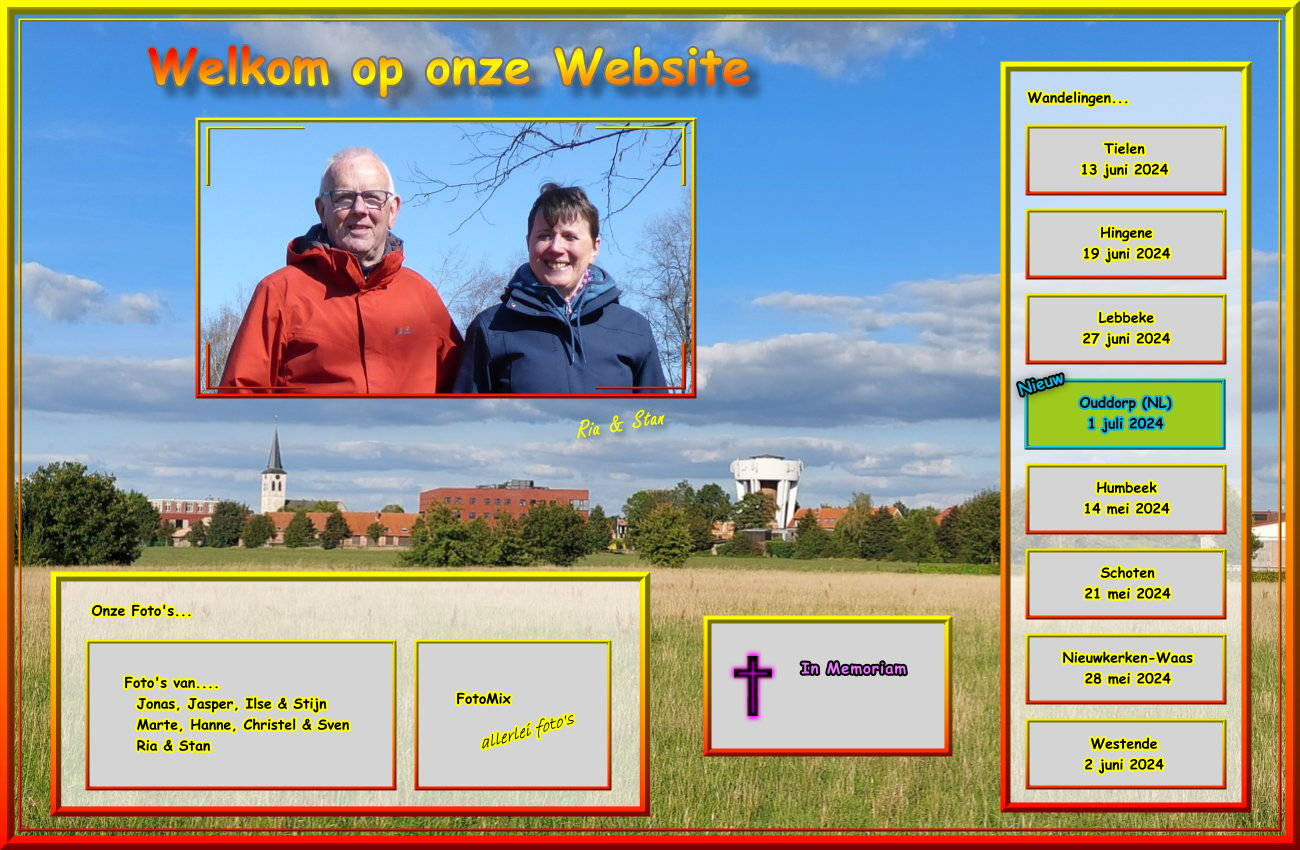
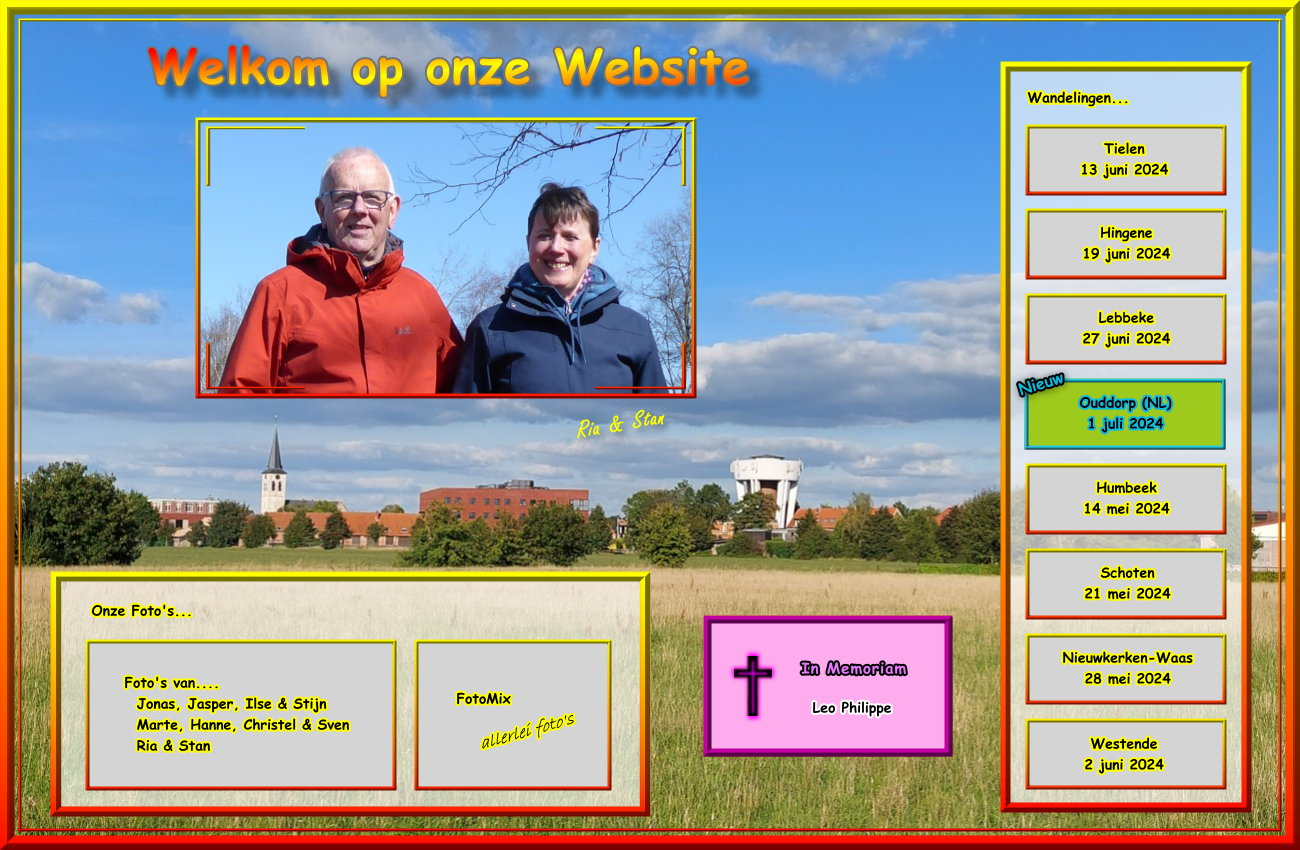
Leo Philippe

Changed region(s): [[0.5231, 0.7035, 0.7385, 0.9176]]

diff --git a/_vti_cnf/in_memoriam.htm b/_vti_cnf/in_memoriam.htm
@@ -1,18 +1,18 @@
 vti_encoding:SR|utf8-nl
 vti_author:SR|HOME-PC\\Stan Claes
 vti_modifiedby:SR|PC-Home\\Stan
-vti_timelastmodified:TR|15 Sep 2023 07:58:12 -0000
+vti_timelastmodified:TR|05 Jul 2024 07:36:28 -0000
 vti_timecreated:TR|19 Mar 2010 12:04:13 -0000
 vti_title:SR|In Memoriam
 vti_extenderversion:SR|6.0.2.5516
 vti_backlinkinfo:VX|index.htm in_memoriam.htm
-vti_nexttolasttimemodified:TW|06 Aug 2023 09:07:04 -0000
-vti_cacheddtm:TX|15 Sep 2023 07:58:12 -0000
-vti_filesize:IR|5785
+vti_nexttolasttimemodified:TW|15 Sep 2023 07:58:12 -0000
+vti_cacheddtm:TX|05 Jul 2024 07:36:28 -0000
+vti_filesize:IR|5998
 vti_cachedtitle:SR|In Memoriam
 vti_cachedbodystyle:SR|<body background="Fotomap/in_memoriam/in_memoriam_back.jpg" style="background-attachment: fixed" leftmargin="150" rightmargin="150">
-vti_cachedlinkinfo:VX|S|Fotomap/in_memoriam/in_memoriam_back.jpg H|index.htm S|Fotomap/in_memoriam/naam.png S|Fotomap/in_memoriam/guidoclaes.png S|Fotomap/in_memoriam/karstenverelst.png S|Fotomap/in_memoriam/josedecat.png S|Fotomap/in_memoriam/yvonnewitdoeck.png S|Fotomap/in_memoriam/rudiherbinia.png S|Fotomap/in_memoriam/vers.png S|Fotomap/in_memoriam/krisgoossens.png S|Fotomap/in_memoriam/josebollen.png S|Fotomap/in_memoriam/raymondebauwens.png S|Fotomap/in_memoriam/mariellepickaert.png S|Fotomap/in_memoriam/evacarrillo.png S|Fotomap/in_memoriam/germainebollen.png S|Fotomap/in_memoriam/jeanmatthyssens.png S|Fotomap/in_memoriam/blanco.png S|Fotomap/in_memoriam/swaverlinden.png S|Fotomap/in_memoriam/arthurwouters.png S|Fotomap/in_memoriam/hildabakelants.png S|Fotomap/in_memoriam/alicebollen.png S|Fotomap/in_memoriam/blanco.png S|Fotomap/in_memoriam/brunhildemayer.png S|Fotomap/in_memoriam/blanco.png S|Fotomap/in_memoriam/germainestukkens.png S|Fotomap/in_memoriam/jossmeuninx.png S|Fotomap/in_memoriam/marcelkeller.png S|Fotomap/in_memoriam/frankvereycken.png S|Fotomap/in_memoriam/wilfriedvandenabbeele.png S|Fotomap/in_memoriam/blanco.png S|Fotomap/in_memoriam/rikluyckx.png S|Fotomap/in_memoriam/rikvercammen.png S|Fotomap/in_memoriam/raymondniewold.png S|Fotomap/in_memoriam/rosaliedirix.png S|Fotomap/in_memoriam/blanco.png S|Fotomap/in_memoriam/albertschelvis.png S|Fotomap/in_memoriam/thildawuyts.png S|Fotomap/in_memoriam/blanco.png S|Fotomap/in_memoriam/hubertdescrevel.png S|Fotomap/in_memoriam/albertebollen.png S|Fotomap/in_memoriam/deniscrollet.png S|Fotomap/in_memoriam/louisdewolf.png S|Fotomap/in_memoriam/freddynyberg.png K|in_memoriam.htm S|Fotomap/in_memoriam/terugbegin.png K|in_memoriam.htm
-vti_cachedsvcrellinks:VX|FSUS|Fotomap/in_memoriam/in_memoriam_back.jpg FHUS|index.htm FSUS|Fotomap/in_memoriam/naam.png FSUS|Fotomap/in_memoriam/guidoclaes.png FSUS|Fotomap/in_memoriam/karstenverelst.png FSUS|Fotomap/in_memoriam/josedecat.png FSUS|Fotomap/in_memoriam/yvonnewitdoeck.png FSUS|Fotomap/in_memoriam/rudiherbinia.png FSUS|Fotomap/in_memoriam/vers.png FSUS|Fotomap/in_memoriam/krisgoossens.png FSUS|Fotomap/in_memoriam/josebollen.png FSUS|Fotomap/in_memoriam/raymondebauwens.png FSUS|Fotomap/in_memoriam/mariellepickaert.png FSUS|Fotomap/in_memoriam/evacarrillo.png FSUS|Fotomap/in_memoriam/germainebollen.png FSUS|Fotomap/in_memoriam/jeanmatthyssens.png FSUS|Fotomap/in_memoriam/blanco.png FSUS|Fotomap/in_memoriam/swaverlinden.png FSUS|Fotomap/in_memoriam/arthurwouters.png FSUS|Fotomap/in_memoriam/hildabakelants.png FSUS|Fotomap/in_memoriam/alicebollen.png FSUS|Fotomap/in_memoriam/blanco.png FSUS|Fotomap/in_memoriam/brunhildemayer.png FSUS|Fotomap/in_memoriam/blanco.png FSUS|Fotomap/in_memoriam/germainestukkens.png FSUS|Fotomap/in_memoriam/jossmeuninx.png FSUS|Fotomap/in_memoriam/marcelkeller.png FSUS|Fotomap/in_memoriam/frankvereycken.png FSUS|Fotomap/in_memoriam/wilfriedvandenabbeele.png FSUS|Fotomap/in_memoriam/blanco.png FSUS|Fotomap/in_memoriam/rikluyckx.png FSUS|Fotomap/in_memoriam/rikvercammen.png FSUS|Fotomap/in_memoriam/raymondniewold.png FSUS|Fotomap/in_memoriam/rosaliedirix.png FSUS|Fotomap/in_memoriam/blanco.png FSUS|Fotomap/in_memoriam/albertschelvis.png FSUS|Fotomap/in_memoriam/thildawuyts.png FSUS|Fotomap/in_memoriam/blanco.png FSUS|Fotomap/in_memoriam/hubertdescrevel.png FSUS|Fotomap/in_memoriam/albertebollen.png FSUS|Fotomap/in_memoriam/deniscrollet.png FSUS|Fotomap/in_memoriam/louisdewolf.png FSUS|Fotomap/in_memoriam/freddynyberg.png FKUS|in_memoriam.htm FSUS|Fotomap/in_memoriam/terugbegin.png FKUS|in_memoriam.htm
+vti_cachedlinkinfo:VX|S|Fotomap/in_memoriam/in_memoriam_back.jpg H|index.htm S|Fotomap/in_memoriam/naam.png S|Fotomap/in_memoriam/leophilippe.png S|Fotomap/in_memoriam/guidoclaes.png S|Fotomap/in_memoriam/karstenverelst.png S|Fotomap/in_memoriam/josedecat.png S|Fotomap/in_memoriam/vers.png S|Fotomap/in_memoriam/yvonnewitdoeck.png S|Fotomap/in_memoriam/rudiherbinia.png S|Fotomap/in_memoriam/krisgoossens.png S|Fotomap/in_memoriam/blanco.png S|Fotomap/in_memoriam/josebollen.png S|Fotomap/in_memoriam/raymondebauwens.png S|Fotomap/in_memoriam/mariellepickaert.png S|Fotomap/in_memoriam/evacarrillo.png S|Fotomap/in_memoriam/germainebollen.png S|Fotomap/in_memoriam/jeanmatthyssens.png S|Fotomap/in_memoriam/swaverlinden.png S|Fotomap/in_memoriam/arthurwouters.png S|Fotomap/in_memoriam/blanco.png S|Fotomap/in_memoriam/hildabakelants.png S|Fotomap/in_memoriam/alicebollen.png S|Fotomap/in_memoriam/blanco.png S|Fotomap/in_memoriam/brunhildemayer.png S|Fotomap/in_memoriam/blanco.png S|Fotomap/in_memoriam/germainestukkens.png S|Fotomap/in_memoriam/jossmeuninx.png S|Fotomap/in_memoriam/marcelkeller.png S|Fotomap/in_memoriam/frankvereycken.png S|Fotomap/in_memoriam/wilfriedvandenabbeele.png S|Fotomap/in_memoriam/blanco.png S|Fotomap/in_memoriam/rikluyckx.png S|Fotomap/in_memoriam/rikvercammen.png S|Fotomap/in_memoriam/raymondniewold.png S|Fotomap/in_memoriam/rosaliedirix.png S|Fotomap/in_memoriam/blanco.png S|Fotomap/in_memoriam/albertschelvis.png S|Fotomap/in_memoriam/thildawuyts.png S|Fotomap/in_memoriam/hubertdescrevel.png S|Fotomap/in_memoriam/blanco.png S|Fotomap/in_memoriam/albertebollen.png S|Fotomap/in_memoriam/deniscrollet.png S|Fotomap/in_memoriam/louisdewolf.png S|Fotomap/in_memoriam/freddynyberg.png K|in_memoriam.htm S|Fotomap/in_memoriam/terugbegin.png K|in_memoriam.htm
+vti_cachedsvcrellinks:VX|FSUS|Fotomap/in_memoriam/in_memoriam_back.jpg FHUS|index.htm FSUS|Fotomap/in_memoriam/naam.png FSUS|Fotomap/in_memoriam/leophilippe.png FSUS|Fotomap/in_memoriam/guidoclaes.png FSUS|Fotomap/in_memoriam/karstenverelst.png FSUS|Fotomap/in_memoriam/josedecat.png FSUS|Fotomap/in_memoriam/vers.png FSUS|Fotomap/in_memoriam/yvonnewitdoeck.png FSUS|Fotomap/in_memoriam/rudiherbinia.png FSUS|Fotomap/in_memoriam/krisgoossens.png FSUS|Fotomap/in_memoriam/blanco.png FSUS|Fotomap/in_memoriam/josebollen.png FSUS|Fotomap/in_memoriam/raymondebauwens.png FSUS|Fotomap/in_memoriam/mariellepickaert.png FSUS|Fotomap/in_memoriam/evacarrillo.png FSUS|Fotomap/in_memoriam/germainebollen.png FSUS|Fotomap/in_memoriam/jeanmatthyssens.png FSUS|Fotomap/in_memoriam/swaverlinden.png FSUS|Fotomap/in_memoriam/arthurwouters.png FSUS|Fotomap/in_memoriam/blanco.png FSUS|Fotomap/in_memoriam/hildabakelants.png FSUS|Fotomap/in_memoriam/alicebollen.png FSUS|Fotomap/in_memoriam/blanco.png FSUS|Fotomap/in_memoriam/brunhildemayer.png FSUS|Fotomap/in_memoriam/blanco.png FSUS|Fotomap/in_memoriam/germainestukkens.png FSUS|Fotomap/in_memoriam/jossmeuninx.png FSUS|Fotomap/in_memoriam/marcelkeller.png FSUS|Fotomap/in_memoriam/frankvereycken.png FSUS|Fotomap/in_memoriam/wilfriedvandenabbeele.png FSUS|Fotomap/in_memoriam/blanco.png FSUS|Fotomap/in_memoriam/rikluyckx.png FSUS|Fotomap/in_memoriam/rikvercammen.png FSUS|Fotomap/in_memoriam/raymondniewold.png FSUS|Fotomap/in_memoriam/rosaliedirix.png FSUS|Fotomap/in_memoriam/blanco.png FSUS|Fotomap/in_memoriam/albertschelvis.png FSUS|Fotomap/in_memoriam/thildawuyts.png FSUS|Fotomap/in_memoriam/hubertdescrevel.png FSUS|Fotomap/in_memoriam/blanco.png FSUS|Fotomap/in_memoriam/albertebollen.png FSUS|Fotomap/in_memoriam/deniscrollet.png FSUS|Fotomap/in_memoriam/louisdewolf.png FSUS|Fotomap/in_memoriam/freddynyberg.png FKUS|in_memoriam.htm FSUS|Fotomap/in_memoriam/terugbegin.png FKUS|in_memoriam.htm
 vti_cachedneedsrewrite:BR|false
 vti_cachedhasbots:BR|false
 vti_cachedhastheme:BR|false

diff --git a/in_memoriam.htm b/in_memoriam.htm
@@ -49,28 +49,30 @@ text-decoration: none;
 
 </div>
 <p align="center">
-<img border="0" src="Fotomap/in_memoriam/guidoclaes.png" width="200" height="300">&nbsp;&nbsp;&nbsp;&nbsp;
-<img border="0" src="Fotomap/in_memoriam/karstenverelst.png" width="200" height="300">&nbsp;&nbsp;&nbsp;&nbsp;
-<img border="0" src="Fotomap/in_memoriam/josedecat.png" width="200" height="300">
+<img border="0" src="Fotomap/in_memoriam/leophilippe.png" width="200" height="300">
 </p>
 
 <hr color="#CD036F">
 
 <p align="center">
 &nbsp;
+<img border="0" src="Fotomap/in_memoriam/guidoclaes.png" width="200" height="300">&nbsp;&nbsp;&nbsp;&nbsp;
+<img border="0" src="Fotomap/in_memoriam/karstenverelst.png" width="200" height="300">&nbsp;&nbsp;&nbsp;&nbsp;
+<img border="0" src="Fotomap/in_memoriam/josedecat.png" width="200" height="300">&nbsp;&nbsp;&nbsp;&nbsp;
+<img border="0" src="Fotomap/in_memoriam/vers.png" width="420" height="300">&nbsp;&nbsp;&nbsp;&nbsp;
 <img border="0" src="Fotomap/in_memoriam/yvonnewitdoeck.png" width="200" height="300">&nbsp;&nbsp;&nbsp;&nbsp;
 <img border="0" src="Fotomap/in_memoriam/rudiherbinia.png" width="200" height="300">&nbsp;&nbsp;&nbsp;&nbsp;
-<img border="0" src="Fotomap/in_memoriam/vers.png" width="420" height="300">&nbsp;&nbsp;&nbsp;&nbsp;
 <img border="0" src="Fotomap/in_memoriam/krisgoossens.png" width="200" height="300">&nbsp;&nbsp;&nbsp;&nbsp;
+<img border="0" src="Fotomap/in_memoriam/blanco.png" width="200" height="300">&nbsp;&nbsp;&nbsp;&nbsp;
 <img border="0" src="Fotomap/in_memoriam/josebollen.png" width="200" height="300">&nbsp;&nbsp;&nbsp;&nbsp;
 <img border="0" src="Fotomap/in_memoriam/raymondebauwens.png" width="200" height="300">&nbsp;&nbsp;&nbsp;&nbsp;
 <img border="0" src="Fotomap/in_memoriam/mariellepickaert.png" width="200" height="300">&nbsp;&nbsp;&nbsp;&nbsp;
 <img border="0" src="Fotomap/in_memoriam/evacarrillo.png" width="200" height="300">&nbsp;&nbsp;&nbsp;&nbsp;
 <img border="0" src="Fotomap/in_memoriam/germainebollen.png" width="200" height="300">&nbsp;&nbsp;&nbsp;&nbsp;
 <img border="0" src="Fotomap/in_memoriam/jeanmatthyssens.png" width="200" height="300">&nbsp;&nbsp;&nbsp;&nbsp;
-<img border="0" src="Fotomap/in_memoriam/blanco.png" width="200" height="300">&nbsp;&nbsp;&nbsp;&nbsp;
 <img border="0" src="Fotomap/in_memoriam/swaverlinden.png" width="200" height="300">&nbsp;&nbsp;&nbsp;&nbsp;
 <img border="0" src="Fotomap/in_memoriam/arthurwouters.png" width="200" height="300">&nbsp;&nbsp;&nbsp;&nbsp;
+<img border="0" src="Fotomap/in_memoriam/blanco.png" width="200" height="300">&nbsp;&nbsp;&nbsp;&nbsp;
 <img border="0" src="Fotomap/in_memoriam/hildabakelants.png" width="200" height="300">&nbsp;&nbsp;&nbsp;&nbsp;
 <img border="0" src="Fotomap/in_memoriam/alicebollen.png" width="200" height="300">&nbsp;&nbsp;&nbsp;&nbsp;
 <img border="0" src="Fotomap/in_memoriam/blanco.png" width="200" height="300">&nbsp;&nbsp;&nbsp;&nbsp;
@@ -89,8 +91,8 @@ text-decoration: none;
 <img border="0" src="Fotomap/in_memoriam/blanco.png" width="200" height="300">&nbsp;&nbsp;&nbsp;&nbsp;
 <img border="0" src="Fotomap/in_memoriam/albertschelvis.png" width="200" height="300">&nbsp;&nbsp;&nbsp;&nbsp;
 <img border="0" src="Fotomap/in_memoriam/thildawuyts.png" width="200" height="300">&nbsp;&nbsp;&nbsp;&nbsp;
-<img border="0" src="Fotomap/in_memoriam/blanco.png" width="200" height="300">&nbsp;&nbsp;&nbsp;&nbsp;
 <img border="0" src="Fotomap/in_memoriam/hubertdescrevel.png" width="200" height="300">&nbsp;&nbsp;&nbsp;&nbsp;
+<img border="0" src="Fotomap/in_memoriam/blanco.png" width="200" height="300">&nbsp;&nbsp;&nbsp;&nbsp;
 <img border="0" src="Fotomap/in_memoriam/albertebollen.png" width="200" height="300">&nbsp;&nbsp;&nbsp;&nbsp;
 <img border="0" src="Fotomap/in_memoriam/deniscrollet.png" width="200" height="300">&nbsp;&nbsp;&nbsp;&nbsp;
 <img border="0" src="Fotomap/in_memoriam/louisdewolf.png" width="200" height="300">&nbsp;&nbsp;&nbsp;&nbsp;

diff --git a/_vti_cnf/index.htm b/_vti_cnf/index.htm
@@ -1,13 +1,13 @@
 vti_encoding:SR|utf8-nl
-vti_timelastmodified:TR|02 Jul 2024 15:20:30 -0000
+vti_timelastmodified:TR|05 Jul 2024 07:38:53 -0000
 vti_extenderversion:SR|6.0.2.5516
 vti_author:SR|PC-Home\\Stan
 vti_modifiedby:SR|PC-Home\\Stan
 vti_timecreated:TR|12 Dec 2015 14:26:20 -0000
 vti_title:SR|Welkom op onze website
 vti_backlinkinfo:VX|claes-bollen.htm familiefotos.htm denis.htm gildeclowns.htm fotomix.htm claes-faes.htm Polaroid_map2/fortb.htm fotoboek.htm vakantie_map4.htm in_memoriam.htm denis-claes.htm sneeuw.htm keukenhof.htm rs_info.htm ballon.htm familiefotos_extra.htm wandeling_map1.htm wandeling_map2.htm wandeling_map7.htm kerstwensen.htm Polaroid_map1/paasfeest.htm wandeling_map8.htm index.htm wandeling_map5.htm wandeling_map6.htm fortb/fortb.htm ilse-stijn-extra.htm hanne5.htm bernaerts-claes.htm wandeling_map3.htm wandeling_map4.htm kerstmis.htm kerst.htm
-vti_nexttolasttimemodified:TW|01 Jul 2024 19:40:04 -0000
-vti_cacheddtm:TX|02 Jul 2024 15:20:31 -0000
+vti_nexttolasttimemodified:TW|02 Jul 2024 15:20:30 -0000
+vti_cacheddtm:TX|05 Jul 2024 07:38:54 -0000
 vti_filesize:IR|2113
 vti_cachedtitle:SR|Welkom op onze website
 vti_cachedbodystyle:SR|<body style="background-attachment: fixed" background="index_back.jpg" leftmargin="100" rightmargin="100">

diff --git a/index.htm b/index.htm
@@ -36,7 +36,7 @@
 <p align="center"><b>
 <font color="#FFFFFF">CCF 2024&nbsp;&nbsp;&nbsp;&nbsp; (1920x1080)<img border="0" src="blanco.png" width="450" height="10"> 
 Laatste Update:&nbsp;
-<!--webbot bot="Timestamp" S-Type="EDITED" S-Format="%d %B %Y" startspan -->02 juli 2024<!--webbot bot="Timestamp" i-checksum="18030" endspan --></font></b></p>
+<!--webbot bot="Timestamp" S-Type="EDITED" S-Format="%d %B %Y" startspan -->05 juli 2024<!--webbot bot="Timestamp" i-checksum="18036" endspan --></font></b></p>
 
 </body>
 
